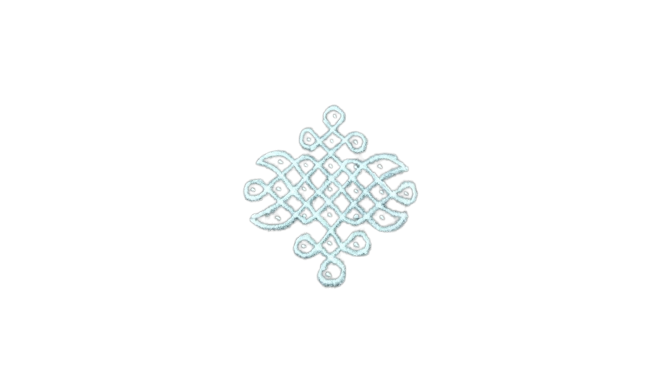
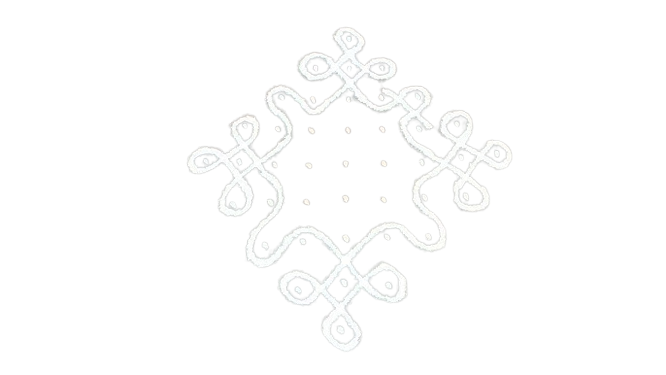
remove api_key while converting originalToBlack convertion

diff --git a/kolamAnalyze/dot_OriginalToBlack.py b/kolamAnalyze/dot_OriginalToBlack.py
@@ -1,4 +1,6 @@
 import requests
+from dotenv import load_dotenv
+import os
 
 def remove_bg(input_path, output_path, api_key):
     """
@@ -24,5 +26,5 @@ def remove_bg(input_path, output_path, api_key):
         print(f"❌ Error: {response.status_code}, {response.text}")
 
 # Example usage
-api_key = "45vRJYpq2zuFiH5rpRzcf9zu"
-remove_bg("./real_images/real_image.png", "./black_images/black.png", api_key)
+api_key = os.getenv("black_bg_api_key") 
+remove_bg("./real_images/real_image2.png", "./black_images/black.png", api_key)

diff --git a/kolamAnalyze/dotEctract1.py b/kolamAnalyze/dotEctract1.py
@@ -394,7 +394,7 @@ if __name__ == "__main__":
     final_count = detector.count_dots(image_path, method='conservative_hybrid', visualize=True)
     
     # Save results
-    detector.save_results(image_path, "kolam_detected_dots_improved.jpg")
+    detector.save_results(image_path, "./outputs/result.jpg")
     
     print(f"\nFINAL DOT COUNT: {final_count}")
     if detector.grid_spacing:

diff --git a/kolamAnalyze/dot_blackToColor.py b/kolamAnalyze/dot_blackToColor.py
@@ -207,8 +207,8 @@ if __name__ == "__main__":
     # Initialize cleaner
     cleaner = KolamCleaner()
     
-    # bw_kolam_path = "./black_images/black.png"
-    bw_kolam_path = "final_2BlackKolam.png"
+    bw_kolam_path = "./black_images/black.png"
+    # bw_kolam_path = "final_2BlackKolam.png"
     output_path = "./outputs/color.png"
     
     # Run cleaning process
